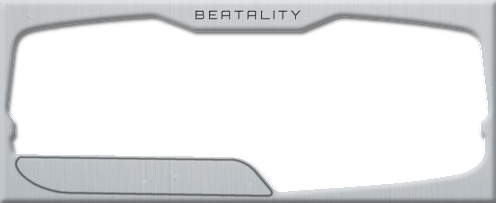
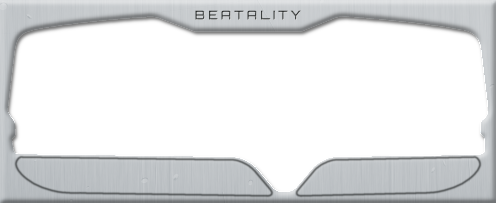
chaos button

Changed region(s): [[0.5746, 0.7389, 0.998, 0.9754]]

diff --git a/apps/web-widget/src/Widget.tsx b/apps/web-widget/src/Widget.tsx
@@ -501,6 +501,9 @@ export function Widget({
                         >
                             Randomize sequence
                         </button>
+                        <button type="button" className="chaos-button" onClick={() => model.chaos()}>
+                            Chaos
+                        </button>
                     </div>
                 </section>
                 <section className="part effects" aria-label="Effects">
@@ -868,7 +871,7 @@ function powerLabel(exponent: number): string {
 }
 
 // Trigger names in bt::ChaosTrigger order.
-const chaosTriggerNames = ['RAND BTN', 'NOTE', 'LOOP', 'SLICES', 'BEAT', 'NONE']
+const chaosTriggerNames = ['NOTE', 'LOOP', 'SLICES', 'BEAT', 'NONE']
 
 // One toggle row: the caption, then its box. group is the bt::ChaosGroup number.
 function ChaosToggle({ model, name, group }: { model: WebViewModel; name: string; group: number }) {
@@ -895,7 +898,7 @@ interface ChaosSize {
     set: (value: number) => void
 }
 
-// The CHAOS drawer, out of the top part's right edge. Its button only slides it out or back. Loop, Slices and Beats each
+// The CHAOS drawer, out of the top part's right edge. Its CHAOS SETTINGS button only slides it out or back. Loop, Slices and Beats each
 // have a size slider; only the one for the chosen trigger shows. Beats size is 2^n beats, slices size is 2^n slices.
 function ChaosSides({ model }: { model: WebViewModel }) {
     const [open, setOpen] = useState(false)
@@ -909,7 +912,7 @@ function ChaosSides({ model }: { model: WebViewModel }) {
     }
     const sizes: ChaosSize[] = [
         {
-            trigger: 2,
+            trigger: 1,
             min: 1,
             max: 8,
             value: model.chaosLoopSize,
@@ -919,7 +922,7 @@ function ChaosSides({ model }: { model: WebViewModel }) {
             set: (value) => model.setChaosLoopSize(value),
         },
         {
-            trigger: 3,
+            trigger: 2,
             min: -1,
             max: 2,
             value: model.chaosSliceSize,
@@ -929,7 +932,7 @@ function ChaosSides({ model }: { model: WebViewModel }) {
             set: (value) => model.setChaosSliceSize(value),
         },
         {
-            trigger: 4,
+            trigger: 3,
             min: -2,
             max: 1,
             value: model.chaosBeatSize,
@@ -1025,7 +1028,7 @@ function ChaosSides({ model }: { model: WebViewModel }) {
                 aria-controls={contentId}
                 onClick={() => setOpen(!open)}
             >
-                Chaos
+                Chaos settings
             </button>
         </aside>
     )

diff --git a/hosts/plugin/ui/index.html b/hosts/plugin/ui/index.html
@@ -117,14 +117,14 @@
       </div>
       <span class="chaos-cap trigger">TRIGGER</span>
       <button type="button" class="chaos-arrow prev" id="chaos-trigger-prev" aria-label="Previous trigger"></button>
-      <output class="chaos-trigger" id="chaos-trigger">RAND BTN</output>
+      <output class="chaos-trigger" id="chaos-trigger">NONE</output>
       <button type="button" class="chaos-arrow next" id="chaos-trigger-next" aria-label="Next trigger"></button>
       <span class="chaos-cap amount" id="chaos-size-cap"></span>
-      <div class="chaos-small" data-trigger="2"><div class="track"></div><div class="thumb"></div>
+      <div class="chaos-small" data-trigger="1"><div class="track"></div><div class="thumb"></div>
         <input type="range" id="chaos-loop-size" min="1" max="8" step="1" value="1" aria-label="Loops"></div>
-      <div class="chaos-small" data-trigger="3"><div class="track"></div><div class="thumb"></div>
+      <div class="chaos-small" data-trigger="2"><div class="track"></div><div class="thumb"></div>
         <input type="range" id="chaos-slice-size" min="-1" max="2" step="1" value="0" aria-label="Slices"></div>
-      <div class="chaos-small" data-trigger="4"><div class="track"></div><div class="thumb"></div>
+      <div class="chaos-small" data-trigger="3"><div class="track"></div><div class="thumb"></div>
         <input type="range" id="chaos-beat-size" min="-2" max="1" step="1" value="0" aria-label="Beats"></div>
       <div class="chaos-group-box g-chaos"><span class="chaos-cap">CHAOS</span>
         <label class="chaos-tog">VALUE<input type="checkbox" class="chaos-group" data-group="9"></label>
@@ -143,7 +143,7 @@
         <label class="chaos-tog">PARAMS<input type="checkbox" class="chaos-group" data-group="8"></label></div>
     </div>
     <div class="case"></div>
-    <button type="button" class="chaos-drawer-btn" id="side-chaos" aria-expanded="false" aria-controls="chaos-drawer-content">Chaos</button>
+    <button type="button" class="chaos-drawer-btn" id="side-chaos" aria-expanded="false" aria-controls="chaos-drawer-content">Chaos settings</button>
   </aside>
   <section class="part top" aria-label="Main controls">
     <div class="window"></div>
@@ -200,6 +200,7 @@
     <div class="case"></div>
     <div class="controls">
       <button type="button" class="randomize" id="randomize">Randomize sequence</button>
+      <button type="button" class="chaos-button" id="chaos-main">Chaos</button>
     </div>
   </section>
   <section class="part effects" aria-label="Effects">

diff --git a/apps/web-widget/src/ui/skin/skin.html b/apps/web-widget/src/ui/skin/skin.html
@@ -110,7 +110,7 @@
       <!-- TRIGGER selector and the matching value slider (BEATS / LOOPS / SLICES, or none) -->
       <span class="chaos-cap trigger">TRIGGER</span>
       <button type="button" class="chaos-arrow prev" id="chaos-trigger-prev" aria-label="Previous trigger"></button>
-      <output class="chaos-trigger" id="chaos-trigger" data-value="button">RAND BTN</output>
+      <output class="chaos-trigger" id="chaos-trigger" data-value="none">NONE</output>
       <button type="button" class="chaos-arrow next" id="chaos-trigger-next" aria-label="Next trigger"></button>
       <!-- under TRIGGER: the trigger's size, caption with its value + slider (BEATS 1/4 .. 2, LOOPS 1 .. 8, SLICES 1/2 .. 4);
            only for those three triggers -->
@@ -139,7 +139,7 @@
         <label class="chaos-tog">PARAMS<input type="checkbox" id="chaos-br-params"></label></div>
     </div>
     <div class="case"></div>
-    <button type="button" class="chaos-drawer-btn" id="side-chaos" aria-expanded="false" aria-controls="chaos-drawer-content">Chaos</button>
+    <button type="button" class="chaos-drawer-btn" id="side-chaos" aria-expanded="false" aria-controls="chaos-drawer-content">Chaos settings</button>
   </aside>
   <section class="part top" aria-label="Main controls">
     <div class="window"></div>
@@ -200,6 +200,7 @@
     <div class="case"></div>
     <div class="controls">
       <button type="button" class="randomize" id="randomize">Randomize sequence</button>
+      <button type="button" class="chaos-button" id="chaos-main">Chaos</button>
       <!-- Stashed in entry 103 (removed from the glass, kept for their state): #chaos-toggle holds chaos mode, which the CHAOS drawer follows.
            three toggles on the glass, lower right: CHAOS and EFFECTS in a row, BEAT REPEAT under them (black pixel buttons, dotted edge, lit when on):
            CHAOS: chaos mode on / off (off by default; its controls are in the side panels).

diff --git a/hosts/plugin/ui/plugin.js b/hosts/plugin/ui/plugin.js
@@ -40,7 +40,7 @@ const state = {
     outputVolume: 1,
     outputPanMin: 0,
     outputPanMax: 0,
-    chaosTrigger: 0,
+    chaosTrigger: 4,
     chaosValue: 0,
     chaosBeatSize: 0,
     chaosLoopSize: 1,
@@ -756,13 +756,13 @@ function followHost(live) {
 
 // The CHAOS side panels. The page only shows the values and sends edits.
 // Triggers in bt::ChaosTrigger order. Loop, Slices and Beats each have a size slider; only the chosen one shows.
-const chaosTriggerNames = ['RAND BTN', 'NOTE', 'LOOP', 'SLICES', 'BEAT', 'NONE']
+const chaosTriggerNames = ['NOTE', 'LOOP', 'SLICES', 'BEAT', 'NONE']
 // Trigger number: the size slider's input id, state key, setter, caption.
 // Beats size is 2^n beats, slices size is 2^n slices.
 const chaosSizes = {
-    2: ['chaos-loop-size', 'chaosLoopSize', 'setChaosLoopSize', (value) => 'LOOPS (' + value + ')'],
-    3: ['chaos-slice-size', 'chaosSliceSize', 'setChaosSliceSize', (value) => 'SLICES (' + sliceLabel(value) + ')'],
-    4: ['chaos-beat-size', 'chaosBeatSize', 'setChaosBeatSize', (value) => 'BEATS (' + sliceLabel(value) + ')'],
+    1: ['chaos-loop-size', 'chaosLoopSize', 'setChaosLoopSize', (value) => 'LOOPS (' + value + ')'],
+    2: ['chaos-slice-size', 'chaosSliceSize', 'setChaosSliceSize', (value) => 'SLICES (' + sliceLabel(value) + ')'],
+    3: ['chaos-beat-size', 'chaosBeatSize', 'setChaosBeatSize', (value) => 'BEATS (' + sliceLabel(value) + ')'],
 }
 
 function paintChaosRange(id, value) {
@@ -1415,6 +1415,10 @@ function wire() {
     // Always enabled. With no samples the processor does nothing.
     document.getElementById('randomize')?.addEventListener('click', () => {
         void native('randomize')
+    })
+    // The CHAOS button: one chaos roll in every trigger mode.
+    document.getElementById('chaos-main')?.addEventListener('click', () => {
+        void native('chaos')
     })
 
     attachSampleScroll()

diff --git a/viewmodels/web/WebViewModel.ts b/viewmodels/web/WebViewModel.ts
@@ -10,7 +10,7 @@ export interface FactoryBank {
     file: string
 }
 
-// The chaos knobs. trigger is 0 Randomize button, 1 Note, 2 Loop, 3 Slices, 4 Beats, 5 None.
+// The chaos knobs. trigger is 0 Note, 1 Loop, 2 Slices, 3 Beats, 4 None.
 // beatSize is 2^n beats, -2..1. loopSize is loops, 1..8. sliceSize is 2^n slices, -1..2.
 // groups is one toggle per chaosGroupNames entry, in that order.
 export interface ChaosState {
@@ -60,7 +60,7 @@ export interface RolledControls {
     chaosSliceSize: number
 }
 
-export const chaosTriggers = ['Randomize button', 'Note', 'Loop', 'Slices', 'Beats', 'None']
+export const chaosTriggers = ['Note', 'Loop', 'Slices', 'Beats', 'None']
 export const chaosGroupNames = [
     'Pan',
     'Slices',
@@ -84,6 +84,8 @@ export interface ViewActions {
     remove: (index: number) => void
     clear: () => void
     randomize: () => void
+    // The CHAOS button: one chaos roll in every trigger mode.
+    chaos: () => void
     setBpm: (bpm: number) => void
     setLoop: (beats: number) => void
     setSlice: (exponent: number) => void
@@ -224,7 +226,7 @@ export class WebViewModel {
     outputVolume = 1
     outputPanMin = 0
     outputPanMax = 0
-    chaosTrigger = 0
+    chaosTrigger = 4
     chaosValue = 0
     chaosBeatSize = 0
     chaosLoopSize = 1
@@ -317,6 +319,10 @@ export class WebViewModel {
 
     randomize() {
         this.actions?.randomize()
+    }
+
+    chaos() {
+        this.actions?.chaos()
     }
 
     // The tempo the engine plays.

diff --git a/apps/web-widget/src/ui/skin/skin.css b/apps/web-widget/src/ui/skin/skin.css
@@ -157,6 +157,19 @@
 .beatality-skin .randomize:disabled { cursor: default; filter: saturate(0) brightness(0.85); }
 .beatality-skin .randomize:focus-visible { filter: brightness(1.08); outline: none; }
 
+/* CHAOS button (design entries 106, 107): right of Randomize, its mirror image round the glass dip between them
+   (outline top-chaos in shapes.svg). Same chrome; recess in top_case.png. Fires one chaos roll; pushed in only while pressed. */
+.beatality-skin .chaos-button {
+  position: absolute; left: 293px; top: 162px; width: 189px; height: 42px; padding: 0; border: 0;
+  background: url("../shapes/chaos_button.png") 0 0 / 100% 100% no-repeat;
+  clip-path: path("M181.0,2.8 L43.3,5.7 C36.1,5.8 26.2,11.0 21.6,16.5 L5.6,35.7 C3.6,38.1 4.6,40.0 8.1,40.0 L133.0,37.0 C163.0,36.5 184.0,20.0 186.0,10.0 C186.7,6.5 183.7,2.8 181.0,2.8 Z");
+  cursor: pointer; font-size: 0;
+}
+.beatality-skin .chaos-button:active,
+.beatality-skin .chaos-button.pressed { background-image: url("../shapes/chaos_button_down.png"); }
+.beatality-skin .chaos-button:disabled { cursor: default; filter: saturate(0) brightness(0.85); }
+.beatality-skin .chaos-button:focus-visible { filter: brightness(1.08); outline: none; }
+
 /* ---------- Upper part: BPM display (like the reference's time display, top-left of the glass) ----------
    caption bar "BPM" (bpm_caption.png, dark, runs under the case on the left),
    dot-grid background (bpm_lcd.png), value field #bpm in 7-segment digits with unlit "000" behind it,

diff --git a/hosts/web/audio-thread/processor.ts b/hosts/web/audio-thread/processor.ts
@@ -14,6 +14,7 @@ interface Core {
     bt_install_sequence: (engine: number, slots: number, size: number, savedCount: number) => void
     bt_midi: (engine: number, status: number, note: number, velocity: number) => void
     bt_randomize: (engine: number) => void
+    bt_chaos: (engine: number) => void
     bt_remove: (engine: number, index: number) => void
     bt_clear: (engine: number) => void
     bt_set_bpm: (engine: number, bpm: number) => void
@@ -98,6 +99,10 @@ interface AppendMessage {
 
 interface RandomizeMessage {
     type: 'randomize'
+}
+
+interface FireChaosMessage {
+    type: 'fireChaos'
 }
 
 interface DisposeMessage {
@@ -345,6 +350,7 @@ type HostMessage =
     | InitMessage
     | AppendMessage
     | RandomizeMessage
+    | FireChaosMessage
     | MidiMessage
     | RemoveMessage
     | ClearMessage
@@ -556,6 +562,9 @@ class BeatalityProcessor extends AudioWorkletProcessor {
             this.append(message)
         } else if (message.type === 'randomize') {
             this.core!.bt_randomize(this.engine)
+            this.postSnapshot(0)
+        } else if (message.type === 'fireChaos') {
+            this.core!.bt_chaos(this.engine)
             this.postSnapshot(0)
         } else if (message.type === 'midi') {
             this.midi.push({

diff --git a/apps/web-widget/src/ui/skin/skin.js b/apps/web-widget/src/ui/skin/skin.js
@@ -381,7 +381,7 @@
 /* CHAOS:
    - #chaos-toggle (aria-pressed, off by default): chaos mode on / off. Fires "change".
    - Side panels: #chaos-amount 0..1 (star slider, no caption).
-   - TRIGGER (#chaos-trigger, data-value): button (RAND BTN), note, loop, slices, beat; the arrows step through them (wrapping).
+   - TRIGGER (#chaos-trigger, data-value): note, loop, slices, beat, none; the arrows step through them (wrapping).
      Its size slider shows only for loop / slices / beat, and the caption under TRIGGER shows its name and value:
      BEATS (1/4 .. 2) #chaos-beats, LOOPS (1 .. 8) #chaos-loops, SLICES (1/2 .. 4) #chaos-slices.
    - 11 toggles (checkboxes): #chaos-play-* (pan, slices, randomize), #chaos-br-* (power, positions, params),
@@ -394,7 +394,7 @@
     toggle.dispatchEvent(new Event("change", { bubbles: true }));
   });
 
-  const TRIG = [["button", "RAND BTN"], ["note", "NOTE"], ["loop", "LOOP"], ["slices", "SLICES"], ["beat", "BEAT"]];
+  const TRIG = [["note", "NOTE"], ["loop", "LOOP"], ["slices", "SLICES"], ["beat", "BEAT"], ["none", "NONE"]];
   const VAL = {
     beat: { el: "chaos-beats", name: "BEATS", fmt: (v) => ["1/4", "1/2", "1", "2"][v] },
     loop: { el: "chaos-loops", name: "LOOPS", fmt: (v) => String(v) },

diff --git a/hosts/web/messages.ts b/hosts/web/messages.ts
@@ -25,6 +25,11 @@ export interface RandomizeMessage {
     type: 'randomize'
 }
 
+// The CHAOS button: one chaos roll in every trigger mode.
+export interface FireChaosMessage {
+    type: 'fireChaos'
+}
+
 // The plugin was closed. The processor stops, so the browser can let it go.
 export interface DisposeMessage {
     type: 'dispose'
@@ -196,7 +201,7 @@ export interface RepeatMixMessage {
     mix: number
 }
 
-// The chaos knobs. trigger is 0 Randomize button, 1 Note, 2 Loop, 3 Slices, 4 Beats, 5 None.
+// The chaos knobs. trigger is 0 Note, 1 Loop, 2 Slices, 3 Beats, 4 None.
 // beatSize is 2^n beats, -2..1. loopSize is loops, 1..8. sliceSize is 2^n slices, -1..2.
 // groups is 11 toggles in bt::ChaosGroup order: pan, slices, randomize, effects (global), effects on/off,
 // effects (private), beat repeat on/off, beat repeat positions, beat repeat params, chaos value, chaos time.
@@ -272,6 +277,7 @@ export type HostMessage =
     | InitMessage
     | AppendMessage
     | RandomizeMessage
+    | FireChaosMessage
     | MidiMessage
     | RemoveMessage
     | ClearMessage

diff --git a/hosts/web/pack.ts b/hosts/web/pack.ts
@@ -84,7 +84,7 @@ export interface PackRepeat {
 }
 
 // bt::ChaosSettings. trigger is a bt::ChaosTrigger name. groups are in bt::ChaosGroup order.
-export const chaosTriggerNames = ['button', 'note', 'loop', 'slices', 'beats', 'none'] as const
+export const chaosTriggerNames = ['note', 'loop', 'slices', 'beats', 'none'] as const
 export type ChaosTriggerName = (typeof chaosTriggerNames)[number]
 
 export interface PackChaos {
@@ -128,7 +128,7 @@ export function defaultRepeat(): PackRepeat {
 }
 
 export function defaultChaos(): PackChaos {
-    return { trigger: 'button', value: 0, beatSize: 0, loopSize: 1, sliceSize: 0, groups: Array(chaosGroups).fill(false) }
+    return { trigger: 'none', value: 0, beatSize: 0, loopSize: 1, sliceSize: 0, groups: Array(chaosGroups).fill(false) }
 }
 
 export interface FactoryBank {

diff --git a/presenters/web/BeatalityParameters.ts b/presenters/web/BeatalityParameters.ts
@@ -221,8 +221,8 @@ export class BeatalityParameters {
                 write: (value) => model.setRepeatChance(value),
             },
             {
-                // 0 Randomize button, 1 Note, 2 Loop, 3 Slices, 4 Beats, 5 None.
-                info: { id: 'chaosTrigger', label: 'Chaos trigger', kind: 'int', min: 0, max: 5 },
+                // 0 Note, 1 Loop, 2 Slices, 3 Beats, 4 None.
+                info: { id: 'chaosTrigger', label: 'Chaos trigger', kind: 'int', min: 0, max: 4 },
                 read: () => model.chaosTrigger,
                 write: (trigger) => model.setChaosTrigger(trigger),
             },

diff --git a/presenters/web/WebPresenter.ts b/presenters/web/WebPresenter.ts
@@ -92,6 +92,7 @@ export class WebPresenter {
             remove: (index) => void this.perform(() => this.remove(index)),
             clear: () => void this.perform(() => this.clear()),
             randomize: () => void this.perform(() => this.randomize()),
+            chaos: () => void this.perform(() => this.client.fireChaos()),
             setBpm: (bpm) => void this.perform(() => this.client.setBpm(bpm)),
             setLoop: (beats) => void this.perform(() => this.client.setLoop(beats)),
             setSlice: (exponent) => void this.perform(() => this.client.setSlice(exponent)),
